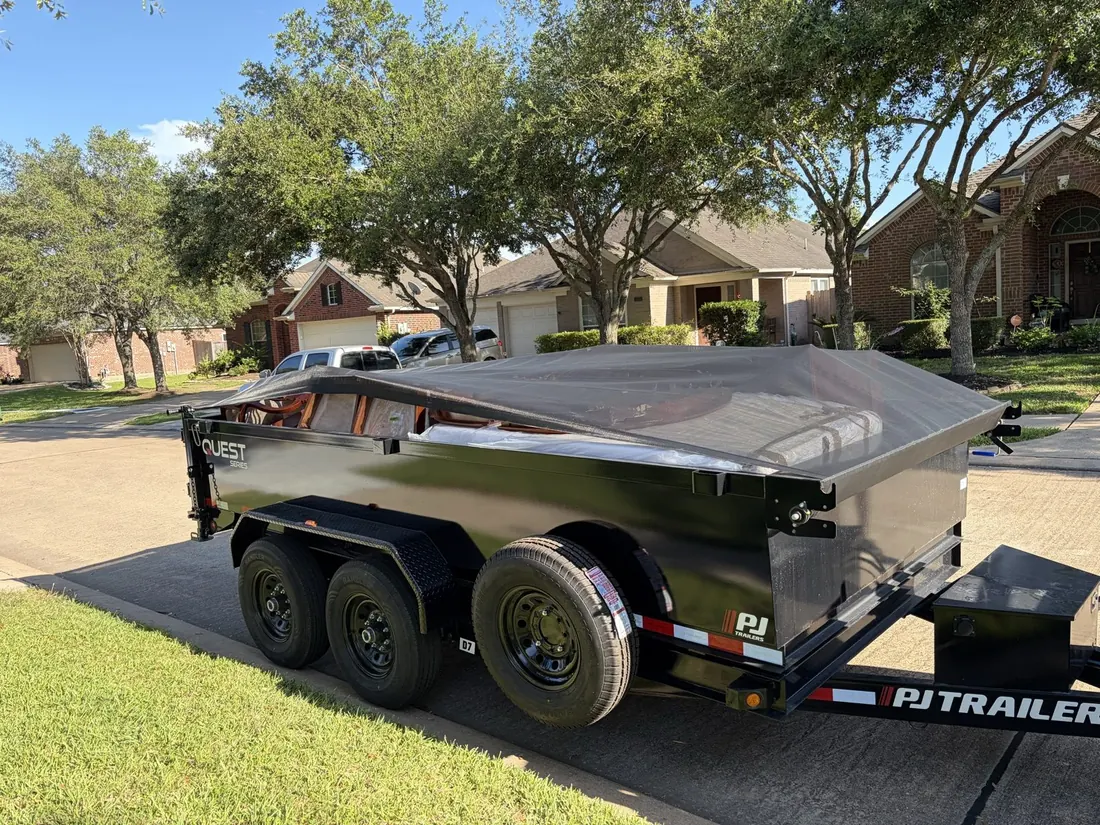
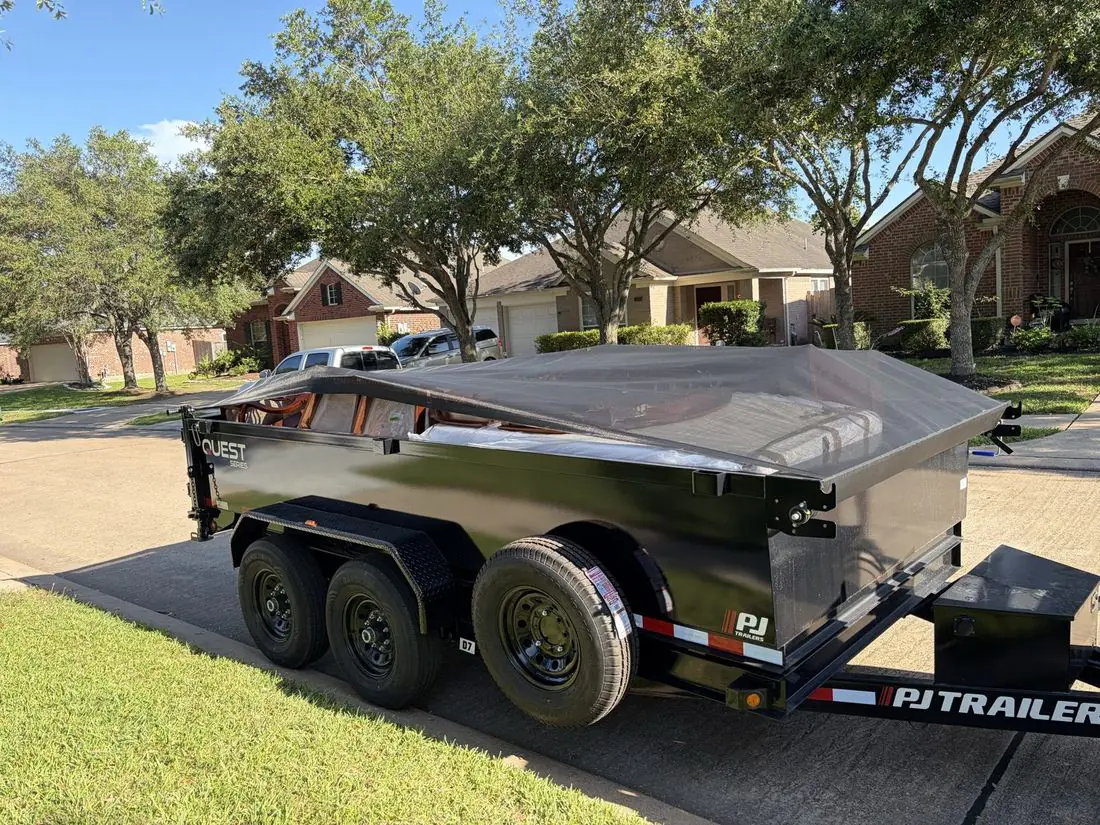
fix: repair llms.txt dead links and cut hero image weight
llms.txt
- Removed 7 links to city pages deleted on 2026-09-30 (Texas City,
  Galveston, La Marque, Hitchcock; junk + dumpster variants). These
  were the only 404s anywhere on the property, and llms.txt is the
  first file AI crawlers read.
- Those cities are still served (they are still in the 59-ZIP service
  area and the site's own ZIP list), so the service claim is kept in
  prose rather than dropped with the links.
- Corrected "within about 25 miles of everywhere from Missouri City to
  Galveston" — Pearland to Galveston is ~45 mi, so the claim was false.
- Closing contact line ended in a period glued to the URL, which made
  it unparseable as a link.
- Freshness date 2026-09-04 -> 2026-10-10.
- Registered address left as League City to stay consistent with the
  schema on 56 pages and the verified GBP.

robots.txt
- Point crawlers at llms.txt; it was previously undiscoverable.

Images
- 11 WebP files were encoded so richly they barely beat their JPEG, and
  work19.webp was actually LARGER than work19.jpg, so any browser taking
  the WebP source downloaded more bytes. Re-encoded against an SSIM
  >= 0.995 gate; 281 KB saved and all 39 WebP now beat their JPEG.
- Hero declared sizes="100vw", but above 1024px the photo is set to
  left:30% and renders at 70vw. Corrected to
  "(min-width: 1024px) 70vw, 100vw" on the <source>, the <img>, and the
  preload link. The preload had to change too or the browser would
[…]

diff --git a/index.html b/index.html
@@ -2080,7 +2080,7 @@ body:has(.hl-ann-bar) .nav{top:40px;}
 @media(max-width:620px){.hl-ann-bar{font-size:0.64rem;gap:7px;letter-spacing:0.02em;}.hl-ann-mob-hide{display:none;}}
 </style>
   <link rel="preload" as="image" media="(max-width: 767px)" imagesrcset="/images/work/hl-hero-yard-portrait-750.webp 750w, /images/work/hl-hero-yard-portrait-1125.webp 1125w" imagesizes="100vw" type="image/webp" fetchpriority="high" />
-  <link rel="preload" as="image" media="(min-width: 768px)" imagesrcset="/images/work/hl-hero-yard-960.webp 960w, /images/work/hl-hero-yard-1600.webp 1600w, /images/work/hl-hero-yard-1920.webp 1920w" imagesizes="100vw" type="image/webp" fetchpriority="high" />
+  <link rel="preload" as="image" media="(min-width: 768px)" imagesrcset="/images/work/hl-hero-yard-960.webp 960w, /images/work/hl-hero-yard-1280.webp 1280w, /images/work/hl-hero-yard-1600.webp 1600w, /images/work/hl-hero-yard-1920.webp 1920w" imagesizes="(min-width: 1024px) 70vw, 100vw" type="image/webp" fetchpriority="high" />
   <!-- Microsoft Clarity: click heatmaps, scroll maps, session recordings -->
   <script type="text/javascript">
     (function(c,l,a,r,i,t,y){
@@ -2166,11 +2166,11 @@ body:has(.hl-ann-bar) .nav{top:40px;}
               srcset="/images/work/hl-hero-yard-portrait-750.jpg 750w, /images/work/hl-hero-yard-portrait-1125.jpg 1125w"
               sizes="100vw" />
       <source type="image/webp"
-              srcset="/images/work/hl-hero-yard-960.webp 960w, /images/work/hl-hero-yard-1600.webp 1600w, /images/work/hl-hero-yard-1920.webp 1920w"
-              sizes="100vw" />
+              srcset="/images/work/hl-hero-yard-960.webp 960w, /images/work/hl-hero-yard-1280.webp 1280w, /images/work/hl-hero-yard-1600.webp 1600w, /images/work/hl-hero-yard-1920.webp 1920w"
+              sizes="(min-width: 1024px) 70vw, 100vw" />
       <img src="/images/work/hl-hero-yard-1600.jpg"
-           srcset="/images/work/hl-hero-yard-960.jpg 960w, /images/work/hl-hero-yard-1600.jpg 1600w, /images/work/hl-hero-yard-1920.jpg 1920w"
-           sizes="100vw" width="1600" height="1200" loading="eager" fetchpriority="high" decoding="async"
+           srcset="/images/work/hl-hero-yard-960.jpg 960w, /images/work/hl-hero-yard-1280.jpg 1280w, /images/work/hl-hero-yard-1600.jpg 1600w, /images/work/hl-hero-yard-1920.jpg 1920w"
+           sizes="(min-width: 1024px) 70vw, 100vw" width="1600" height="1200" loading="eager" fetchpriority="high" decoding="async"
            alt="H&amp;L co-owner Hayden standing between the orange 14-yard and black 20-yard roll-off dumpsters at the Pearland yard" />
     </picture>
     <div class="hero-shade" aria-hidden="true"></div>
@@ -2682,7 +2682,7 @@ body:has(.hl-ann-bar) .nav{top:40px;}
       </div>
       <div class="about-img-col reveal-right d2">
         <div class="about-img-wrap">
-          <img src="images/work/work5.jpg" width="1100" height="825" alt="H&amp;L Junk Removal's truck and loaded dump trailer on a job in League City, TX" loading="lazy" />
+          <picture><source srcset="images/work/work5.webp" type="image/webp" /><img src="images/work/work5.jpg" width="1100" height="825" alt="H&amp;L Junk Removal's truck and loaded dump trailer on a job in League City, TX" loading="lazy" /></picture>
         </div>
       </div>
     </div>
